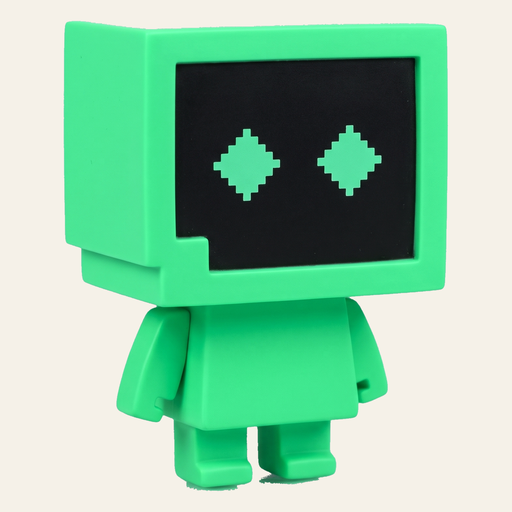
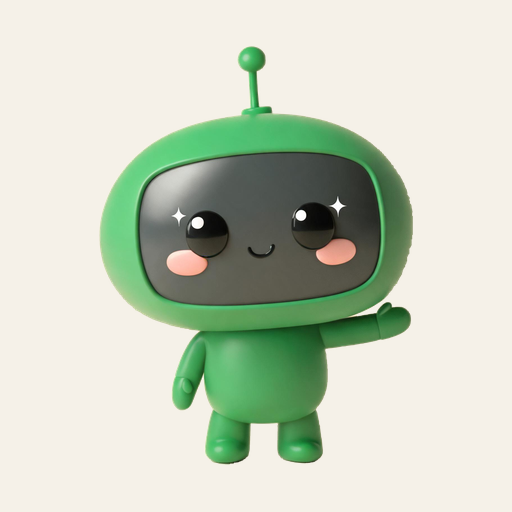
feat: 桌面图标换成可爱版机器人，补可遮罩图标
原图标是方块绿机器人，形象偏硬。新版保留 Trae 招牌的黑色屏幕脸，
改成圆润搪胶玩具质感：腮红、星星眼、高光瞳孔、微笑，配一根天线和招手。

抠图按「绿度」特征切主体，地面投影阴影和背景的绿度为负，能干净分开；
生成工具的水印整块裁掉，不做修补，避免留下矩形色块。

diff --git a/sw.js b/sw.js
@@ -13,12 +13,12 @@
 //
 // 顺带解决「用户手机上装的是旧版本、永远刷不到新版」：
 //   · index.html 里有一段内联脚本，用带版本号的地址注册 sw.js
-//     （sw.js?v=9）。地址变了浏览器就会当成新注册去装，
+//     （sw.js?v=10）。地址变了浏览器就会当成新注册去装，
 //     不管 HTML 里引用的 main.js 是不是旧的。
 //   · index.html 在旧版 SW 下也是网络优先，所以这段内联脚本
 //     每次拿到的都是最新的。
 
-const CACHE = 'traebao-v9';
+const CACHE = 'traebao-v10';
 
 // 离线时要用到的全部文件
 const SHELL = [
@@ -44,6 +44,7 @@ const SHELL = [
   './src/ui/settings.js',
   './icons/icon-192.png',
   './icons/icon-512.png',
+  './icons/icon-maskable-512.png',
   './icons/trae-robot-green.png',
   './src/assets/sprite/01-有灵感.png',
   './src/assets/sprite/01-有灵感.gif',

diff --git a/index.html b/index.html
@@ -78,14 +78,14 @@
 <script>
 // 注册 Service Worker。
 //
-// 这里用带版本号的地址（sw.js?v=9），而不是直接写 sw.js：
+// 这里用带版本号的地址（sw.js?v=10），而不是直接写 sw.js：
 // 地址变了浏览器就会当成一次全新的注册去下载安装，
 // 哪怕手机里装的是很老的版本，也能被换掉。
 // 放在 HTML 里而不是 main.js 里，是因为 HTML 走网络优先，
 // 每次拿到的都是最新的这段代码，不会被旧版 JS 挡住。
 if ('serviceWorker' in navigator) {
   window.addEventListener('load', function () {
-    navigator.serviceWorker.register('sw.js?v=9', { updateViaCache: 'none' })
+    navigator.serviceWorker.register('sw.js?v=10', { updateViaCache: 'none' })
       .catch(function () { /* 本地 file:// 打开时会失败，忽略 */ });
   });
 }

diff --git a/tools/verify_live.js b/tools/verify_live.js
@@ -55,8 +55,8 @@ async function main() {
     const keys = await caches.keys();
     return { regs: regs.length, keys };
   });
-  check('1. Service Worker 已注册，缓存只有 traebao-v9',
-    swState.regs > 0 && swState.keys.length === 1 && swState.keys[0] === 'traebao-v9',
+  check('1. Service Worker 已注册，缓存只有 traebao-v10',
+    swState.regs > 0 && swState.keys.length === 1 && swState.keys[0] === 'traebao-v10',
     JSON.stringify(swState));
 
   // 2. 填错模型名 → 测试连接应报 404 + 上游错误码

diff --git a/tools/make_icons.py b/tools/make_icons.py
@@ -1,22 +1,96 @@
+#!/usr/bin/env python3
+"""从源渲染图生成 Trae宝 的 PWA 桌面图标。
+
+源图：icons/source/robot-cute.jpg（3D 搪胶质感的可爱机器人：黑屏脸 + 腮红 + 招手）
+
+要解决的两个麻烦：
+1. 生成工具在右下角留了「AI生成」水印 —— 整块裁掉，不做修补，避免留下矩形色块
+2. 脚下有地面投影阴影 —— 用「绿度」特征抠主体，阴影和背景的绿度是负值，天然分得开
+
+产出：
+  icons/icon-192.png           桌面图标 192×192
+  icons/icon-512.png           桌面图标 512×512
+  icons/icon-maskable-512.png  可遮罩图标（Android 自适应裁切用）
+  icons/trae-robot-green.png   透明底立绘 1024×1024
+"""
 import os
+
+import numpy as np
 from PIL import Image
+from scipy import ndimage
 
-SRC = "src/assets/sprite/07-甲方说好.png"
-OUT_DIR = "icons"
-SIZES = {"icon-192.png": 192, "icon-512.png": 512}
-BG = (245, 241, 232, 255)
+HERE = os.path.dirname(os.path.abspath(__file__))
+ROOT = os.path.dirname(HERE)
+SRC = os.path.join(ROOT, "icons/source/robot-cute.jpg")
+OUT = os.path.join(ROOT, "icons")
+
+# App 的米色纸底，和 app.css / manifest 的主题色一致
+APP_BG = (245, 241, 232)
+
+# 生成工具的水印位于右下角，这块整块裁掉
+CROP = (105, 0, 1825, 1720)
 
 
-def make_icon(size: int, out_path: str) -> None:
-    im = Image.open(SRC).convert("RGBA")
-    im = im.resize((int(size * 0.78), int(size * 0.78)), Image.LANCZOS)
-    canvas = Image.new("RGBA", (size, size), BG)
-    canvas.alpha_composite(im, ((size - im.width) // 2, (size - im.height) // 2))
-    canvas.save(out_path, optimize=True)
+def cutout():
+    """抠出带透明通道的机器人立绘。"""
+    im = Image.open(SRC).convert("RGB")
+    a = np.asarray(im).astype(np.float32)
+    a = a[CROP[1]:CROP[3], CROP[0]:CROP[2]]
+
+    r, g, b = a[:, :, 0], a[:, :, 1], a[:, :, 2]
+    # 绿度：绿色外壳为正，背景和投影阴影为负
+    greenness = g - np.maximum(r, b)
+
+    # 主体 = 绿色外壳；黑色屏幕脸被绿框完全包住，填洞后一并纳入
+    subject = greenness > 14
+    subject = ndimage.binary_closing(subject, structure=np.ones((9, 9)))
+    subject = ndimage.binary_fill_holes(subject)
+
+    lab, n = ndimage.label(subject)
+    sizes = ndimage.sum(subject, lab, range(1, n + 1))
+    subject = lab == (1 + int(np.argmax(sizes)))   # 只保留最大连通域 = 机器人
+
+    # 连续绿度做边缘羽化，避免硬边毛刺
+    alpha = np.clip((greenness + 2) / 12, 0, 1)
+    alpha = np.where(subject, np.maximum(alpha, 1.0), alpha)
+    # 主体外的杂散绿度（阴影反光）抹掉
+    alpha = alpha * ndimage.binary_dilation(subject, structure=np.ones((5, 5)))
+    alpha = ndimage.gaussian_filter(alpha, 0.6)
+
+    rgba = np.dstack([a, alpha * 255]).astype(np.uint8)
+    cut = Image.fromarray(rgba, "RGBA")
+    bbox = cut.getchannel("A").point(lambda v: 255 if v > 8 else 0).getbbox()
+    return cut.crop(bbox)
+
+
+def compose(robot, size, ratio):
+    """把立绘居中放进正方形米色底，主体占画面 ratio。"""
+    sc = size * ratio / robot.height
+    r = robot.resize((int(robot.width * sc), int(robot.height * sc)), Image.LANCZOS)
+    canvas = Image.new("RGB", (size, size), APP_BG)
+    canvas.paste(r, ((size - r.width) // 2, (size - r.height) // 2), r)
+    return canvas
+
+
+def main():
+    robot = cutout()
+    print("抠图结果", robot.size)
+
+    # 透明底立绘：主体占画布 92%
+    S = 1024
+    sc = S * 0.92 / robot.height
+    big = robot.resize((int(robot.width * sc), int(robot.height * sc)), Image.LANCZOS)
+    master = Image.new("RGBA", (S, S), (0, 0, 0, 0))
+    master.paste(big, ((S - big.width) // 2, (S - big.height) // 2), big)
+    master.save(os.path.join(OUT, "trae-robot-green.png"))
+    print("写出 icons/trae-robot-green.png")
+
+    compose(robot, 192, 0.82).save(os.path.join(OUT, "icon-192.png"))
+    compose(robot, 512, 0.82).save(os.path.join(OUT, "icon-512.png"))
+    # 可遮罩：主体缩到 60%，落在 80% 安全圈内
+    compose(robot, 512, 0.60).save(os.path.join(OUT, "icon-maskable-512.png"))
+    print("写出 icon-192 / icon-512 / icon-maskable-512")
 
 
 if __name__ == "__main__":
-    os.makedirs(OUT_DIR, exist_ok=True)
-    for name, size in SIZES.items():
-        make_icon(size, os.path.join(OUT_DIR, name))
-        print("wrote", name)
+    main()

diff --git a/README.md b/README.md
@@ -27,9 +27,11 @@ traebao-pwa/
 ├── manifest.webmanifest    # PWA 清单：standalone / portrait / 192+512 图标
 ├── sw.js                   # Service Worker：预缓存应用外壳，代码类资源网络优先
 ├── icons/
-│   ├── icon-192.png         # 桌面图标 192×192
-│   ├── icon-512.png         # 桌面图标 512×512
-│   └── trae-robot-green.png # 绿色机器人立绘（透明底，可任意叠放）
+│   ├── icon-192.png           # 桌面图标 192×192
+│   ├── icon-512.png           # 桌面图标 512×512
+│   ├── icon-maskable-512.png  # 可遮罩图标（Android 自适应圆角裁切用）
+│   ├── trae-robot-green.png   # 绿色机器人立绘（透明底，可任意叠放）
+│   └── source/robot-cute.jpg  # 图标源渲染图（只用于重新生成图标，不上线）
 ├── src/
 │   ├── main.js             # 应用装配：发送 → 组上下文 → 流式渲染 → 写回记忆
 │   ├── mood.js             # 8 种情绪标签 → 表情图片映射
@@ -55,7 +57,7 @@ traebao-pwa/
 ├── test/                   # Node 内置测试，零依赖
 ├── tools/                  # 辅助脚本（mock 服务器、图标生成、端到端验收）
 │   ├── mock_server.py      # 本地假模型服务
-│   ├── make_icon_from_photo.py  # 从实物照片抠图生成桌面图标
+│   ├── make_icons.py       # 从可爱机器人渲染图抠图生成全套桌面图标
 │   ├── verify.js           # 标准端到端验收（7 项）
 │   ├── verify_xiaomi.js    # 小米浏览器场景验收（8 项）
 │   ├── verify_xiaomi_playwright.js  # 小米浏览器场景验收（Playwright 版，8 项）
